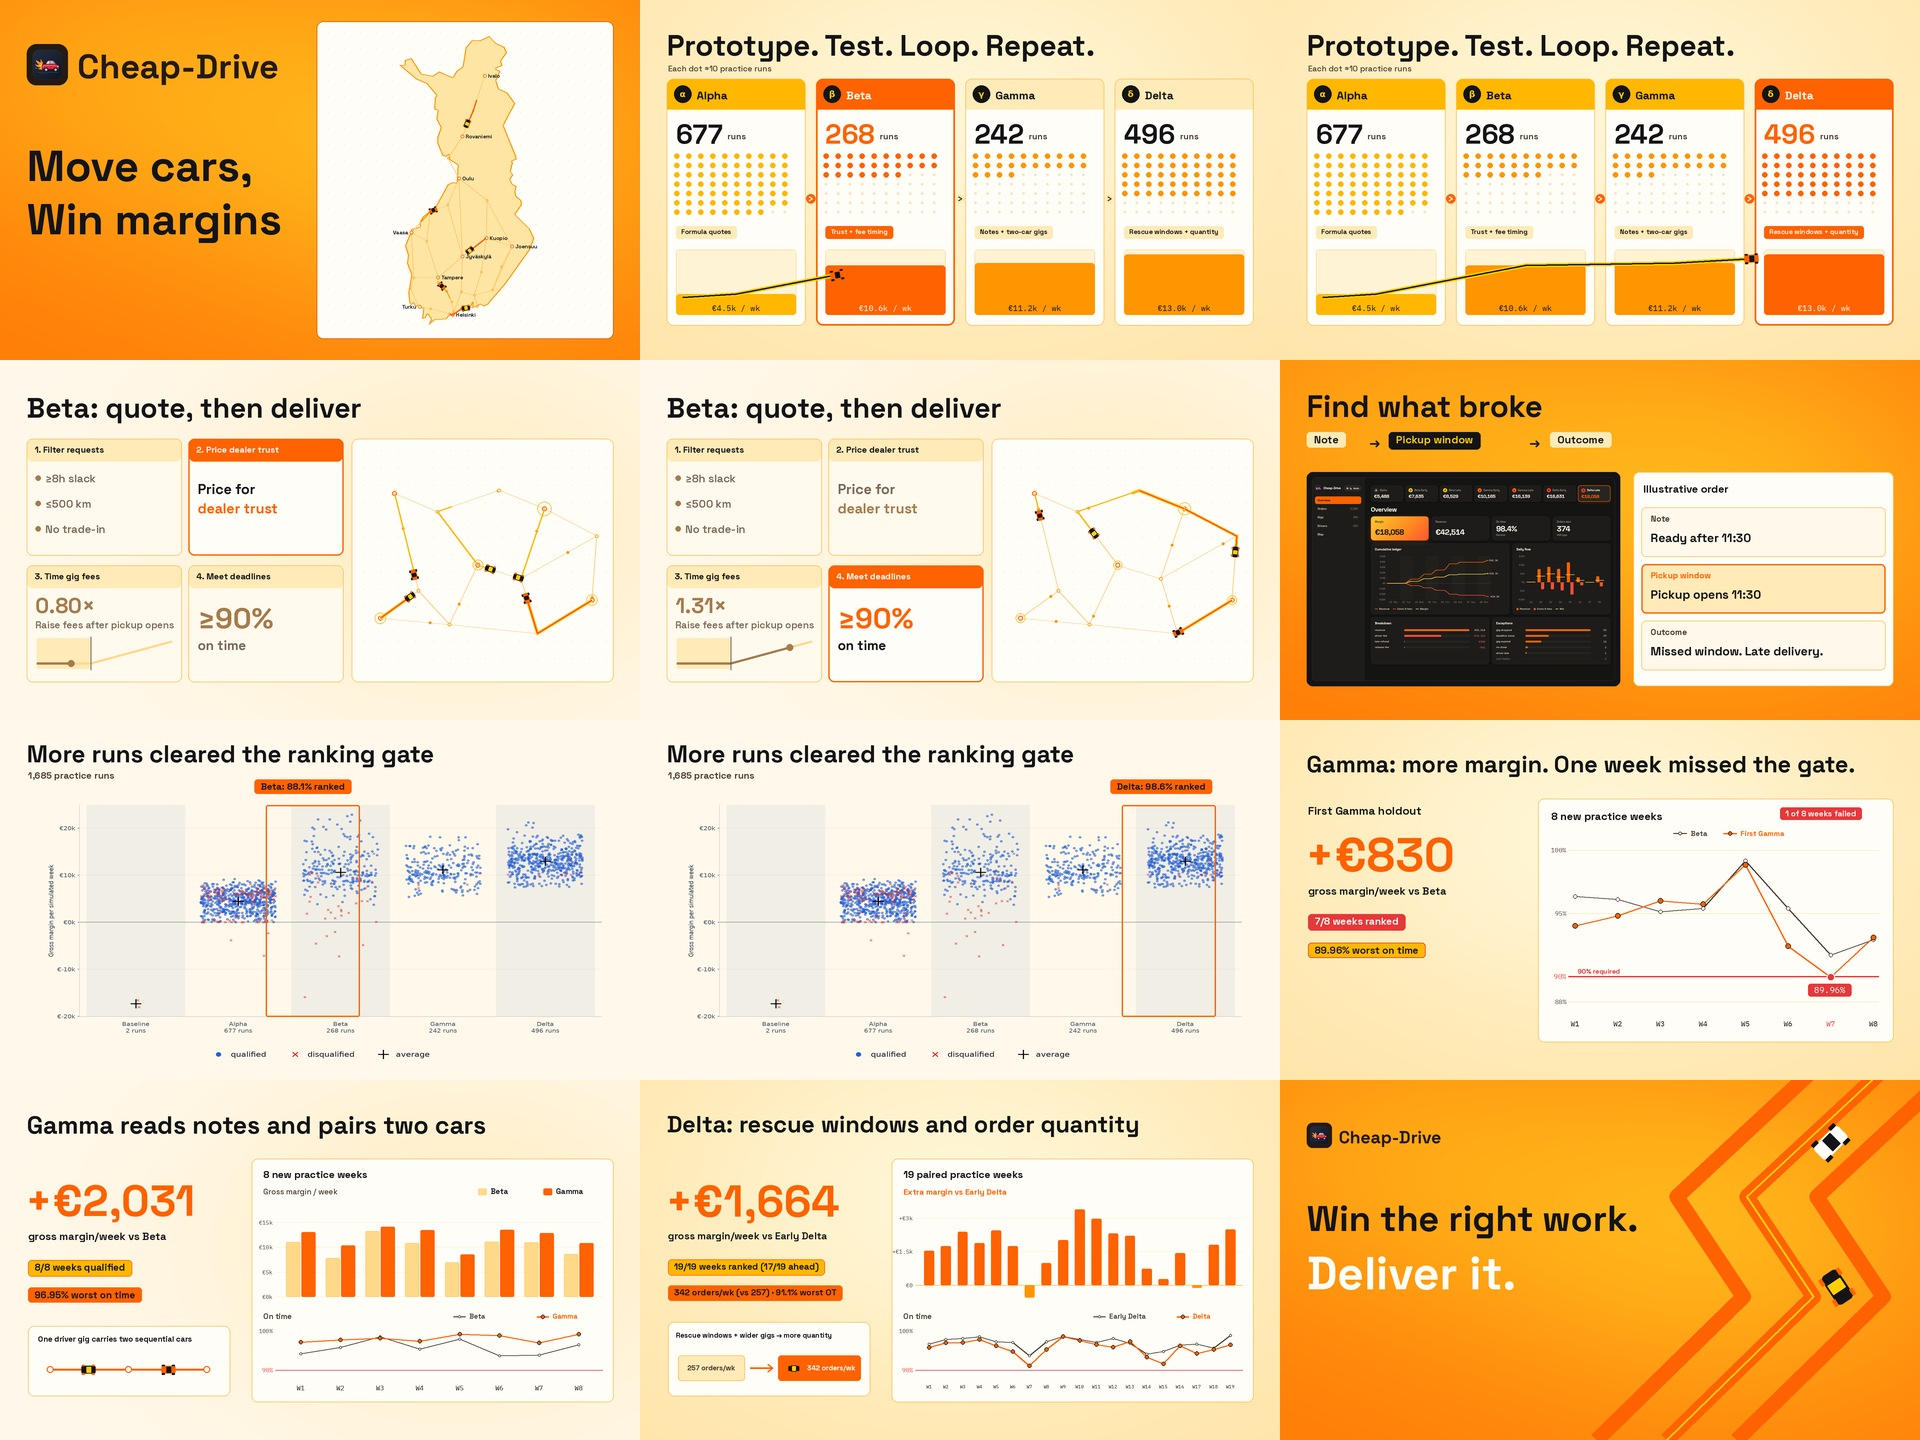
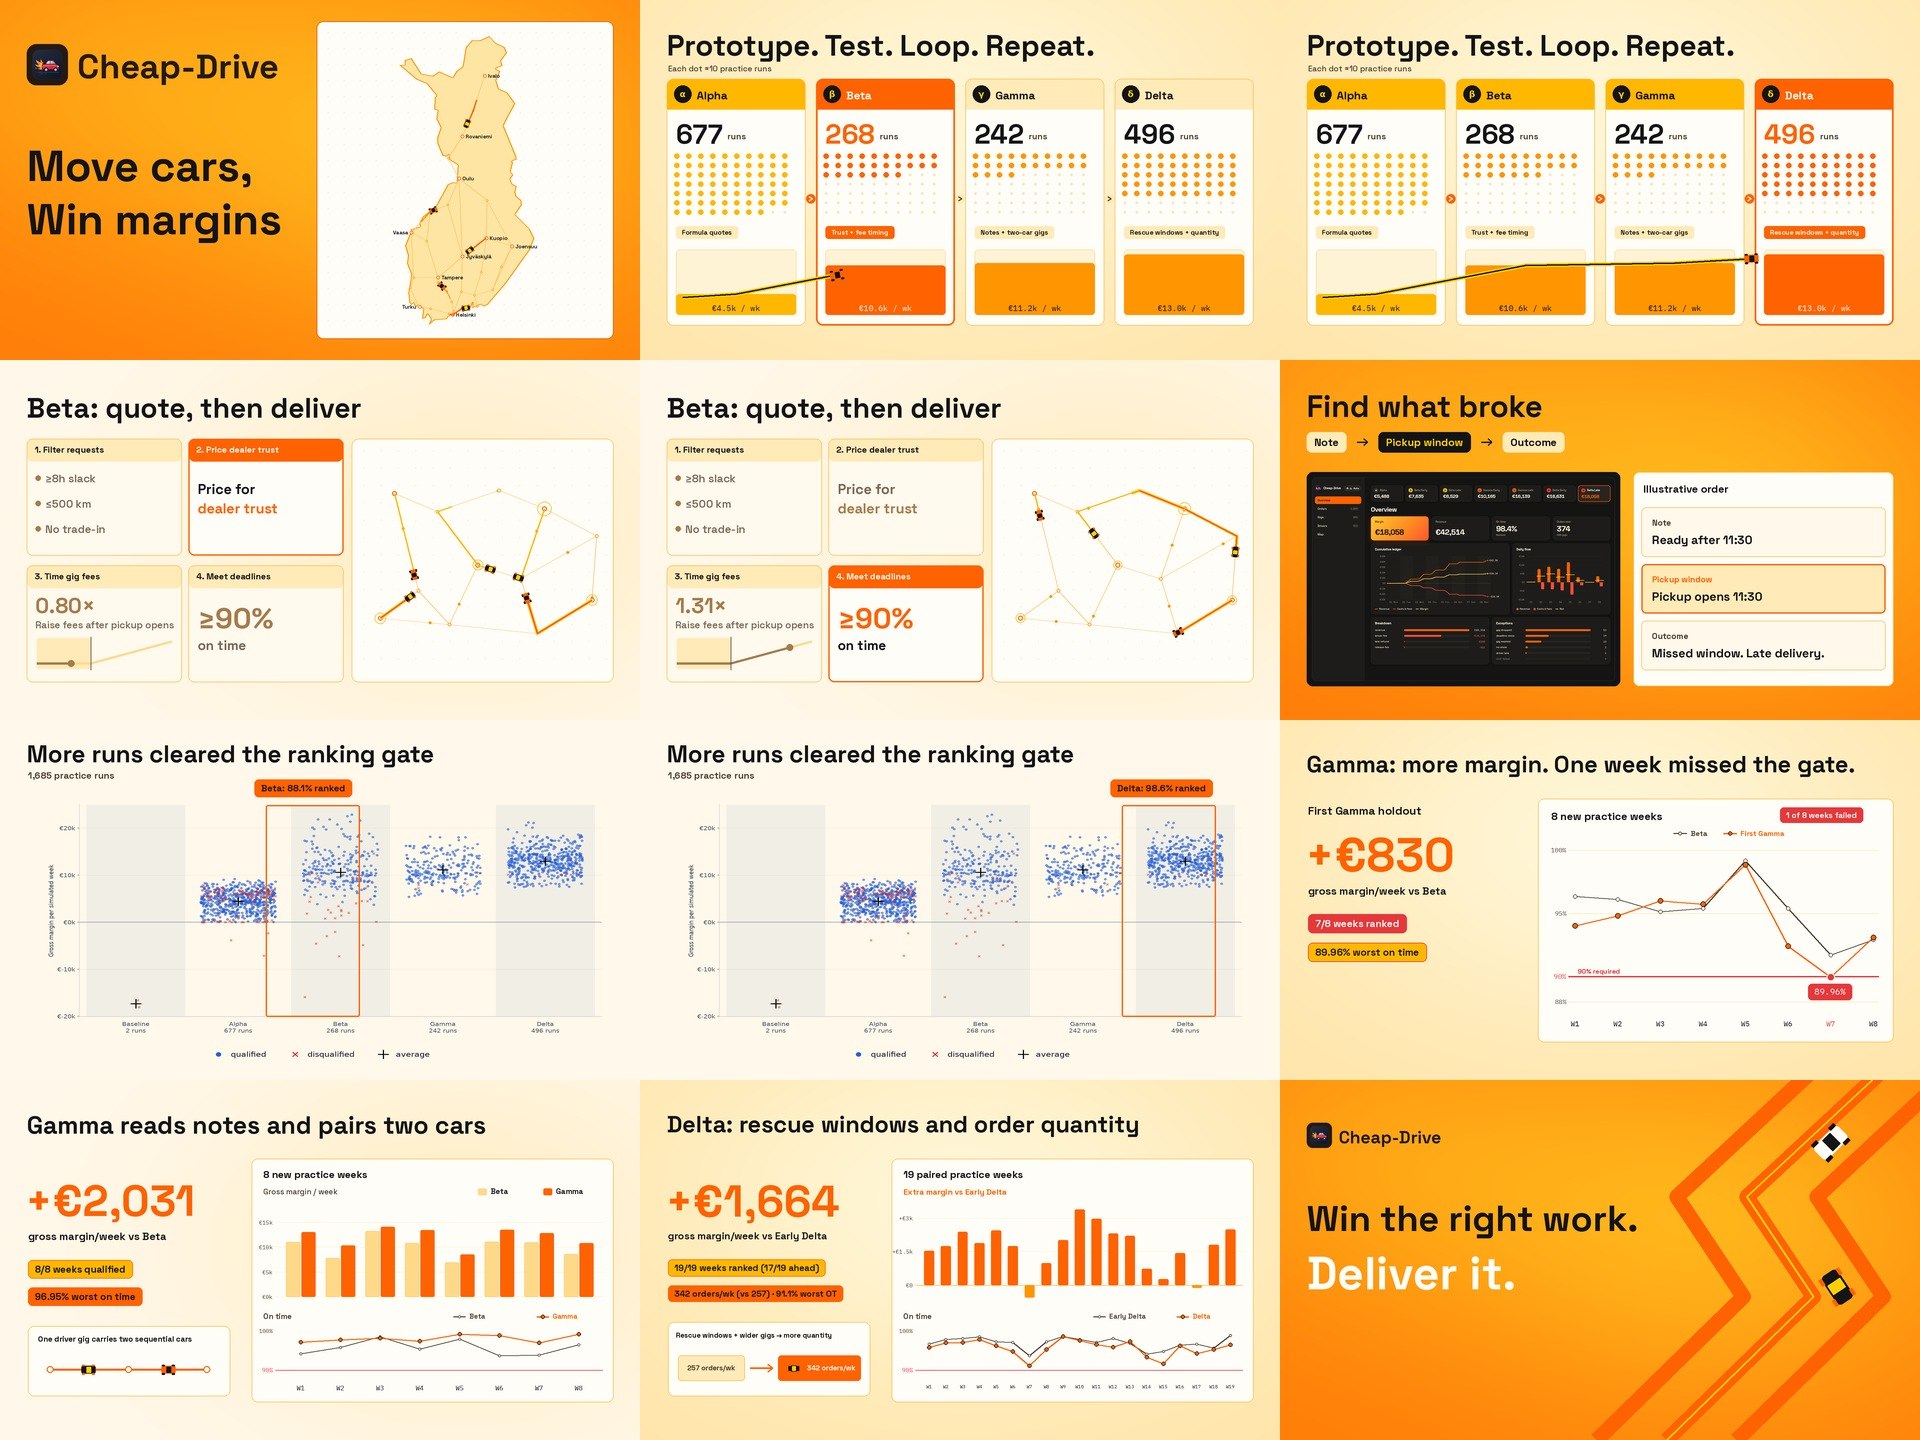
Center badge text baselines and flow arrows evenly on Slide 4

diff --git a/docs/demo-video/index.html b/docs/demo-video/index.html
@@ -40,8 +40,8 @@
 </head>
 <body>
   <main class="stage">
-    <video controls autoplay loop playsinline preload="auto" poster="poster.png?v=1685q" src="cheap-drive-demo.mp4?v=1685q">
-      <track kind="captions" src="captions.vtt?v=1685q" srclang="en" label="English">
+    <video controls autoplay loop playsinline preload="auto" poster="poster.png?v=1685r" src="cheap-drive-demo.mp4?v=1685r">
+      <track kind="captions" src="captions.vtt?v=1685r" srclang="en" label="English">
     </video>
   </main>
 </body>

diff --git a/docs/demo-video/render.py b/docs/demo-video/render.py
@@ -150,12 +150,14 @@ def circle(im, x, y, r, fill, outline=None, width=1):
 def badge(im, text, x, y, color=INK, bg=MARIGOLD, border=None, size=22, mono=False, weight=650):
     f = font(size, weight, mono)
     b = f.getbbox(str(text))
-    pad_x = max(16, round(size * 0.68))
-    pad_y = max(10, round(size * 0.38))
+    cap_b = f.getbbox('H')
+    pad_x = max(18, round(size * 0.72))
     w = (b[2] - b[0]) + 2 * pad_x
-    h = (b[3] - b[1]) + 2 * pad_y
-    rect(im, (x, y, x + w, y + h), bg, outline=border, r=max(8, round(h * 0.22)), width=2 if border else 0)
-    txt(im, text, x + pad_x - b[0], y + pad_y - b[1], size, color, weight=weight, mono=mono)
+    h = max(36, round(size * 1.90))
+    rect(im, (x, y, x + w, y + h), bg, outline=border, r=max(8, round(h * 0.24)), width=2 if border else 0)
+    tx = x + w / 2 - (b[0] + b[2]) / 2
+    ty = y + h / 2 - (cap_b[1] + cap_b[3]) / 2
+    txt(im, text, tx, ty, size, color, weight=weight, mono=mono)
     return w
 
 
@@ -590,11 +592,20 @@ def observability(t):
     im = base_canvas('juicy').copy()
     enter(im, 'Find what broke', 80, 80, 92, t, .05, weight=700)
     phase = min(2, int(t / 1.9))
-    for i, (label, x) in enumerate([('Note', 80), ('Pickup window', 326), ('Outcome', 810)]):
-        badge(im, label, x, 216, color=SUNBURST if i == phase else INK,
-              bg=INK if i == phase else APRICOT, size=32)
+    pill_y = 216
+    pill_size = 32
+    pill_h = max(36, round(pill_size * 1.90))
+    mid_y = pill_y + pill_h / 2
+    cur_x = 80
+    gap = 96
+    for i, label in enumerate(['Note', 'Pickup window', 'Outcome']):
+        w = badge(im, label, cur_x, pill_y, color=SUNBURST if i == phase else INK,
+                  bg=INK if i == phase else APRICOT, size=pill_size, weight=700)
         if i < 2:
-            txt(im, '→', 268 if i == 0 else 748, 222, 40, INK, 700)
+            ax = cur_x + w + gap / 2
+            line(im, [(ax - 16, mid_y), (ax + 14, mid_y)], INK, 4)
+            line(im, [(ax + 4, mid_y - 10), (ax + 15, mid_y), (ax + 4, mid_y + 10)], INK, 4)
+        cur_x += w + gap
 
     rect(im, (80, 336, 1020, 978), INK, r=18)
     bezel_w, bezel_h = 1004 - 96, 962 - 352
@@ -619,8 +630,8 @@ def observability(t):
         yy = 442 + i * 170
         rect(im, (1084, yy, 1816, yy + 148), APRICOT if i == phase else CREAM,
              ORANGE if i == phase else GOLD_LINE, r=14, width=4 if i == phase else 2)
-        txt(im, label, 1112, yy + 18, 25, ORANGE if i == phase else MUTED_INK, 700)
-        txt(im, principal, 1112, yy + 68, 36, INK, 700)
+        txt(im, label, 1116, yy + 30, 25, ORANGE if i == phase else MUTED_INK, 700)
+        txt(im, principal, 1116, yy + 74, 36, INK, 700)
     return im
 
 
